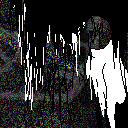
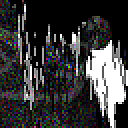
assorted fixes
- layouts/base: art page title repetition
- assets/art: static thumbnail pixelization
- links: end parentheses(?? what's the singular of that), less snippy phrasing
- black-space: swap piped.garudalinux for piped.video; stray end parenthesie??
- art/smad: shrug span

diff --git a/_layouts/base.html b/_layouts/base.html
@@ -7,7 +7,7 @@
 		
 		<!--favicon via https://realfavicongenerator.net/--><link rel="apple-touch-icon" sizes="180x180" href="{%include url.html%}/assets/img/favicon/apple-touch-icon.png"> <link rel="icon" type="image/png" sizes="32x32" href="{%include url.html%}/assets/img/favicon/favicon-32x32.png"> <link rel="icon" type="image/png" sizes="16x16" href="{%include url.html%}/assets/img/favicon/favicon-16x16.png"> <link rel="manifest" href="{%include url.html%}/assets/img/favicon/site.webmanifest"> <link rel="mask-icon" href="{%include url.html%}/assets/img/favicon/safari-pinned-tab.svg" color="#000000"> <meta name="msapplication-TileColor" content="#b91d47"> <meta name="theme-color" content="#ffffff">
 		
-		<title>{%if page.layout=='art'%}“{{page.title}}” – by an artist{%endif%}{%if page.url contains 'meta'%}OMORIposting: {%endif%}{{page.title}}</title>
+		<title>{%if page.layout=='art'%}“{%endif%}{%if page.url contains 'meta'%}OMORIposting: {%endif%}{{page.title}}{%if page.layout=='art'%}” – by an artist{%endif%}</title>
 		<link rel="stylesheet" type="text/css" href="{%include url.html%}/assets/base.css"/>{%if layout.css%}<link rel="stylesheet" type="text/css" href="{%include url.html%}/assets/{{layout.css}}.css"/>{%endif%}{%if page.css%}
 		<style>{{page.css}}</style>{%endif%}
 	</head>

diff --git a/doors/black-space.md b/doors/black-space.md
@@ -160,7 +160,7 @@ area:
 
 <main>
 <div id="desc" markdown="1">
-Why does [the Fandom wiki](https://omori.fandom.com/wiki/BLACK_SPACE#BLACK_SPACE) assign Area names when the (superior, IMO) labels *in the actual project data* are right there in the References sections?! (Seriously), if you know, [please tell me](about#contact).) Filenames double-checked against the [data dump](https://goats.dev/omori/maps.html).
+Why does [the Fandom wiki](https://omori.fandom.com/wiki/BLACK_SPACE#BLACK_SPACE) assign Area names when the (superior, IMO) labels *in the actual project data* are right there in the References sections?! (Seriously, if you know, [please tell me](about#contact).) Filenames double-checked against the [data dump](https://goats.dev/omori/maps.html).
 
 Also wanted to put the thumbnails near the track links for faster reference than opening the entire wiki page. In the interest of not using official assets, images are hotlinked from, uh, the Fandom wiki. (I have a love-hate relationship with it, yes.) These URLs will probably break at some point.
 
@@ -176,7 +176,7 @@ Also wanted to put the thumbnails near the track links for faster reference than
 		<td><div class="nm"><b>Welcome Again.</b></div><ul>
 			<li><a href="https://omori.bandcamp.com/track/welcome-again">Bandcamp</a></li>
 			<li><a href="https://piped.video/watch?v=gAWLivIzTKc&list=PLbANFjAlbtqLkcthrPJ7lqYcVTSwXr2L0">YouTube (official)</a></li>
-			<li><a href="https://piped.garudalinux.org/watch?v=L5_GpNYLQb0&list=PL5QdldG84gVPz0-lTq4uzId3d3jTmxxv7">YouTube (extended)</a></li>
+			<li><a href="https://piped.video/watch?v=L5_GpNYLQb0&list=PL5QdldG84gVPz0-lTq4uzId3d3jTmxxv7">YouTube (extended)</a></li>
 		</ul></td>
 	</tr>{%for ar in page.area%}<tr>
 		<td class="omo"><a href="https://omori.fandom.com/wiki/{{ar.wiki|upcase}}_AREA">{{ar.wiki|capitalize}} Area</a><br><b>{%if ar.mapid%}<a href="https://goats.dev/omori/map.html#{{ar.mapid}}">{%endif%}{{ar.file}}{%if ar.mapid%}</a>{%endif%}</b>{%unless ar.mapid%}*{%endunless%}</td>
@@ -184,7 +184,7 @@ Also wanted to put the thumbnails near the track links for faster reference than
 		<td>{%if ar.ost%}<div class="nm"><b>{{ar.ost.nm}}</b></div><ul>
 			<li><a href="https://omori.bandcamp.com/track/{%if ar.ost.bc%}{{ar.ost.bc}}{%else%}{{ar.ost.nm|downcase}}{%endif%}">Bandcamp</a></li>
 			<li><a href="https://piped.video/watch?v={{ar.ost.yt}}&list=PLbANFjAlbtqLkcthrPJ7lqYcVTSwXr2L0">YouTube (official)</a></li>
-			<li><a href="https://piped.garudalinux.org/watch?v={{ar.ost.ext}}&list=PL5QdldG84gVPz0-lTq4uzId3d3jTmxxv7">YouTube (extended)</a></li>
+			<li><a href="https://piped.video/watch?v={{ar.ost.ext}}&list=PL5QdldG84gVPz0-lTq4uzId3d3jTmxxv7">YouTube (extended)</a></li>
 		</ul>{%else%}[N/A]†{%endif%}</td>
 	</tr>{%if ar.note%}<tr colspan="3">
 		<td class="bs-note" colspan="3">{{ar.note|markdownify}}</td>
@@ -194,7 +194,7 @@ Also wanted to put the thumbnails near the track links for faster reference than
 		<td><div class="nm"><b>Orchard</b> → <b>Temple</b></div><ul>
 			<li>Bandcamp: <a href="https://omori.bandcamp.com/track/orchard">Orchard</a> & <a href="https://omori.bandcamp.com/track/temple">Temple</a></li>
 			<li>YouTube (official): <a href="https://piped.video/watch?v=g7lfPT4jNQQ&list=PLbANFjAlbtqLkcthrPJ7lqYcVTSwXr2L0">Orchard</a> & <a href="https://piped.video/watch?v=wiGmzLwTy5o&list=PLbANFjAlbtqLkcthrPJ7lqYcVTSwXr2L0">Temple</a></li>
-			<li>YouTube (extended): <a href="https://piped.garudalinux.org/watch?v=7fYiUa4nmVQ&list=PL5QdldG84gVPz0-lTq4uzId3d3jTmxxv7">Orchard</a> & <a href="https://piped.garudalinux.org/watch?v=6k2pFv2JRP8&list=PL5QdldG84gVPz0-lTq4uzId3d3jTmxxv7">Temple</a></li>
+			<li>YouTube (extended): <a href="https://piped.video/watch?v=7fYiUa4nmVQ&list=PL5QdldG84gVPz0-lTq4uzId3d3jTmxxv7">Orchard</a> & <a href="https://piped.video/watch?v=6k2pFv2JRP8&list=PL5QdldG84gVPz0-lTq4uzId3d3jTmxxv7">Temple</a></li>
 		</ul></td>
 	</tr><tr colspan="3">
 		<td class="bs-note" colspan="3"><p>‡Has two maps; <a href="https://goats.dev/omori/map.html#457">the second</a> is longer.</p></td>
@@ -204,7 +204,7 @@ Also wanted to put the thumbnails near the track links for faster reference than
 		<td><div class="nm"><b>Listening</b></div><ul>
 			<li><a href="https://omori.bandcamp.com/track/listening">Bandcamp</a></li>
 			<li><a href="https://piped.video/watch?v=OWrUZC__Tgc&list=PLbANFjAlbtqLkcthrPJ7lqYcVTSwXr2L0">YouTube (official)</a></li>
-			<li><a href="https://piped.garudalinux.org/watch?v=Lm3db0PAEW8&list=PL5QdldG84gVPz0-lTq4uzId3d3jTmxxv7">YouTube (extended)</a></li>
+			<li><a href="https://piped.video/watch?v=Lm3db0PAEW8&list=PL5QdldG84gVPz0-lTq4uzId3d3jTmxxv7">YouTube (extended)</a></li>
 		</ul></td>
 	</tr></tbody>
 </table>

diff --git a/links.md b/links.md
@@ -22,12 +22,12 @@ Not comprehensive.
 <div class="para" markdown="1">
 ## Fanmade Resources
 - <b>[Fandom Wiki](https://omori.fandom.com/wiki/OMORI_WIKI)</b> (+ [Breezewiki frontend](https://breezewiki.com/omori/wiki/OMORI_WIKI))  
-Seems to treat some fanon information as canon (notably in story & character descriptions, and assigning names to [places without]({%include url.html%}/black-space) but overall a decent reference. Wish it had better organization & actual sources for the artwork galleries....
+Seems to treat some fanon information as canon (notably in story & character descriptions, and assigning names to [places without]({%include url.html%}/black-space)) but overall a decent reference. Wish it had better organization & actual sources for the artwork galleries....
 - <b>[goats.dev dialogue dump](https://goats.dev/omori/)</b>  
 I have no idea what half of this means or why the in-file organization is jumbled, but it's often cited for unused dialogue.
 - <b>[Let's Play Archive](https://lparchive.org/Omori/)</b>  
 A forum-based playthrough of the entire game, with most dialogue transcribed, some gifs, and videos of various (if not all?) endings. The LPer has made some presentation desicions I'm not crazy about\*, <em style="text-transform:uppercase;font-style:normal;">but</em> it's nonetheless an A+ resource for reskimming the plot and major dialogues. Plus, unlike a video, ~it's&nbsp;skimmable~
-	- \*nitpicky grievances include: giving talksprites to characters without, including spirit!Mari (who has a sprite sheet in the files but only one is used in-game); inserting dialogue in the Omori fight without making clear this is an insert; and not noting some minor details like flavor text & cutscene actions. That said, while there's some commentary from the LPer, it's sparse; there are no, say, snarky jokes between every other line or incoherent keysmashing about dramatic moments. Both of which are #valid and have their place, but they'd make the LP a lot less useful as a game reference, y'know? 
+	- \*~~nitpicky grievances~~ Things to note: LPer has given talksprites to characters without, including spirit!Mari (who has a sprite sheet in the files but only one is used in-game) & inserted dialogue in the Omori fight without making clear this is an insert. While there's some commentary from the LPer, it's sparse; there are no, say, snarky jokes between every other line or incoherent keysmashing about dramatic moments. Both of which are #valid and have their place, but they'd make the LP a lot less useful as a game reference, y'know? 
 - <b>[Omoriboy Archive](https://alexanderjt.neocities.org/omoriboy)</b>  
 Manually-created mirror of the blog posts that started it all. The original blogs are inaccessible even with a Tumblr login, but some (if not all?) posts were [reblogged by Omocat](https://www.omocat-blog.com/tagged/omori/chrono).
 - <b>[Spriters Resource spriterips](https://www.spriters-resource.com/pc_computer/omori/)</b>  

diff --git a/_art/2023-03-07_smad.md b/_art/2023-03-07_smad.md
@@ -10,7 +10,7 @@ css: ".da p:last-child{margin-top:-.5em;}"
 ---
 From [the deviantArt description](https://www.deviantart.com/a-flyleaf/art/smad-mdp-952636937):
 <blockquote class="da" markdown="1">
-Random doodle that I liked but I didn’t feel like doing a clean fullbody or a background so this composition happened instead <span class="display:inline-block">¯\\\_( :V )_/¯</span> Static shading was an afterthought but layer effects are fun and all that jazz.
+Random doodle that I liked but I didn’t feel like doing a clean fullbody or a background so this composition happened instead <span style="display:inline-block">¯\\\_( :V )_/¯</span> Static shading was an afterthought but layer effects are fun and all that jazz.
 
 It’s weird drawing a baseball bat that’s not an intentionally-lopsided bottle-thing, ngl. Still exaggerated the width a bit too much, whoops….
 

diff --git a/changelog.md b/changelog.md
@@ -69,6 +69,8 @@ log:
     line: Wrote more meta (incomplete).
   - dt: 2023-03-07
     line: <a href="art/smad">Drew a thing</a>.
+  - dt: 2023-03-16
+    line: Fixed assorted things.
 ---
 <div id="lt-content"><div id="laptop">
 	<div class="box">
